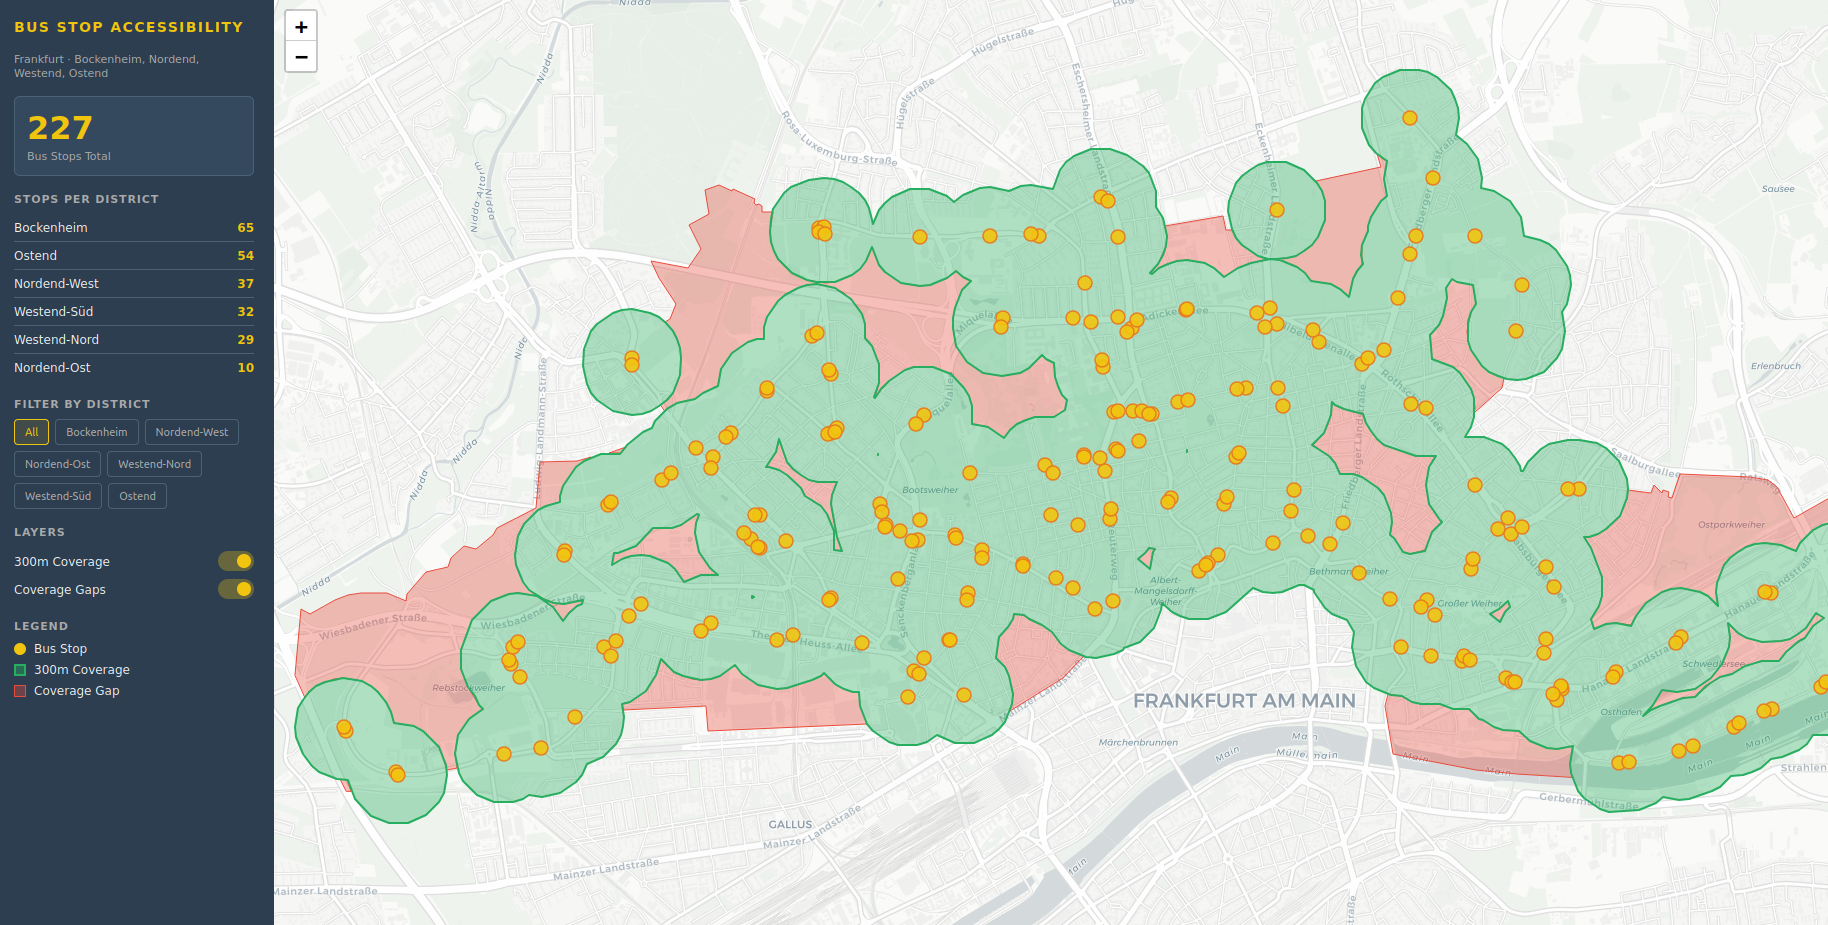
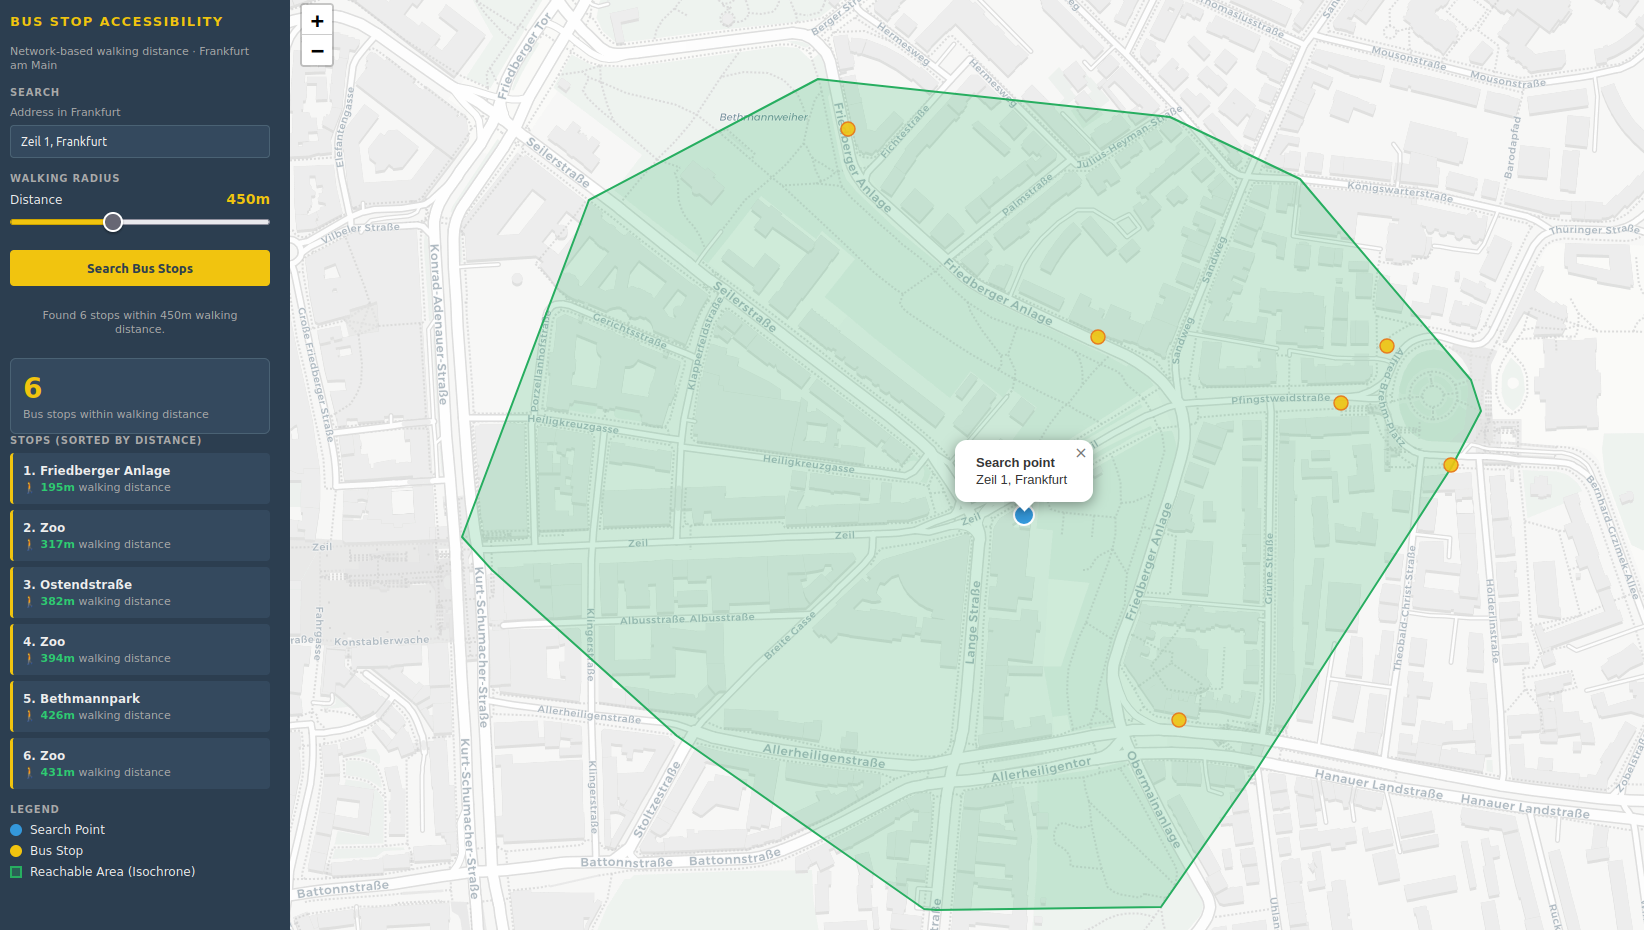
readme aktualisiert

diff --git a/README.md b/README.md
@@ -1,6 +1,6 @@
 # Bus Stop Accessibility Analyzer
 
-A full-stack geospatial web application that analyzes public bus stop coverage in Frankfurt am Main using real OpenStreetMap data, PostGIS spatial queries, and an interactive Leaflet map.
+A full-stack geospatial web application that analyzes public bus stop accessibility in Frankfurt am Main using **network-based walking distance** — not simple radius buffers. Built with real OpenStreetMap data, PostGIS spatial queries, FastAPI and an interactive Leaflet map.
 
 ![Dashboard Preview](img/bus-access.png)
 
@@ -8,19 +8,33 @@ A full-stack geospatial web application that analyzes public bus stop coverage i
 
 ## Motivation
 
-Urban mobility planning depends on understanding how well neighborhoods are served by public transport. This tool automatically identifies coverage gaps — areas where residents live more than 300m from the nearest bus stop — directly applicable to smart city, urban planning, and mobility GIS workflows.
+Urban mobility planning depends on understanding how well neighborhoods are served by public transport. Simple radius buffers ignore streets, buildings and real walking paths. This tool uses the **actual pedestrian street network** to calculate reachable bus stops — directly applicable to smart city, urban planning, and mobility GIS workflows.
 
 ---
 
 ## Features
 
-- Automated OSM data retrieval for bus stops and district boundaries
-- 300m coverage buffer analysis per stop using PostGIS geography functions
-- Coverage gap detection via `ST_Difference` between district boundaries and coverage area
+- Address geocoding → coordinates via osmnx
+- **Network-based walking distance** using real pedestrian street network (not simple buffers)
+- **Isochrone generation** — polygon showing the actual reachable area on foot
+- Bus stops sorted by real walking distance in sidebar
+- Click on stop in sidebar → map flies to location
 - REST API serving GeoJSON endpoints with FastAPI
-- Interactive Leaflet map with layer toggles and district filtering
 - Fully containerized PostGIS database via Docker
+- Cloud deployment: Render (API) + Supabase (PostGIS)
 - Reproducible environment via conda
+
+---
+
+## Network-based vs. Simple Buffer
+
+| | Simple Buffer | Network-based (this project) |
+|---|---|---|
+| Method | Circle around stop | Actual street graph |
+| Accuracy | Low | High |
+| Considers streets | ❌ | ✅ |
+| Considers obstacles | ❌ | ✅ |
+| Industry standard | No | Yes |
 
 ---
 
@@ -28,10 +42,12 @@ Urban mobility planning depends on understanding how well neighborhoods are serv
 
 | Layer | Tool |
 |---|---|
-| Database | PostgreSQL + PostGIS (Docker) |
+| Database | PostgreSQL + PostGIS (Docker / Supabase) |
 | ETL | osmnx · GeoPandas · Python |
-| API | FastAPI · GeoAlchemy2 · SQLAlchemy |
+| Network Analysis | osmnx · NetworkX |
+| API | FastAPI · SQLAlchemy |
 | Frontend | Leaflet.js · HTML/CSS |
+| Deployment | Render (API) · Supabase (DB) |
 | Environment | conda · Docker Compose |
 
 ---
@@ -43,12 +59,25 @@ OpenStreetMap (OSM)
         ↓
 ETL Pipeline (osmnx + GeoPandas)
         ↓
-PostGIS Database (Docker)
+PostGIS Database (Supabase)
         ↓
-FastAPI REST API
+FastAPI REST API (Render)
         ↓
 Leaflet Frontend (Browser)
 ```
+
+---
+
+## How It Works
+
+1. User enters an address and walking radius (e.g. 300m)
+2. Address is geocoded to coordinates via osmnx
+3. Pedestrian street network is loaded around the point
+4. NetworkX calculates all nodes reachable within the radius
+5. Bus stops within the reachable area are fetched from PostGIS
+6. Each stop's actual walking distance is computed via shortest path
+7. Isochrone polygon is generated from reachable network nodes
+8. Results displayed on map + sorted list in sidebar
 
 ---
 
@@ -56,36 +85,14 @@ Leaflet Frontend (Browser)
 
 | Endpoint | Description |
 |---|---|
+| `GET /api/search?address=Zeil+1+Frankfurt&radius=300` | Network-based stop search |
 | `GET /api/stops` | All bus stops as GeoJSON |
 | `GET /api/stops?district=Bockenheim` | Filtered by district |
 | `GET /api/coverage?radius=300` | Union of all stop buffers |
 | `GET /api/gaps?radius=300` | Areas without bus coverage |
 | `GET /api/stats` | Stop count per district |
 
-Interactive API docs available at `http://localhost:8000/docs`
-
----
-
-## Coverage Analysis
-
-For each bus stop a 300m buffer is calculated using PostGIS geography functions. The coverage gap is the spatial difference between the real district boundaries (from OSM) and the union of all coverage areas:
-
-```sql
-ST_Difference(district_boundary, ST_Union(ST_Buffer(geometry::geography, 300)))
-```
-
-Red areas on the map indicate zones where residents are more than 300m from any bus stop.
-
----
-
-## Districts Covered
-
-- Bockenheim
-- Nordend-West
-- Nordend-Ost
-- Westend-Nord
-- Westend-Süd
-- Ostend
+Interactive API docs: `https://bus-stop-accessibility.onrender.com/docs`
 
 ---
 
@@ -129,16 +136,18 @@ bus-stop-accessibility/
 ├── docker-compose.yml
 ├── requirements.txt
 ├── environment.yml
+├── Dockerfile
 ├── backend/
-│   ├── main.py          # FastAPI app
-│   ├── database.py      # DB connection
-│   ├── models.py        # Table definitions
+│   ├── main.py             # FastAPI app
+│   ├── database.py         # DB connection
+│   ├── models.py           # Table definitions
 │   ├── routes/
-│   │   └── stops.py     # API endpoints
+│   │   ├── stops.py        # Coverage & gap endpoints
+│   │   └── search.py       # Network-based search endpoint
 │   └── etl/
-│       └── load_data.py # OSM → PostGIS pipeline
+│       └── load_data.py    # OSM → PostGIS pipeline
 ├── frontend/
-│   └── index.html       # Leaflet map
+│   └── index.html          # Leaflet map
 └── img/
     └── bus-access.png
 ```
